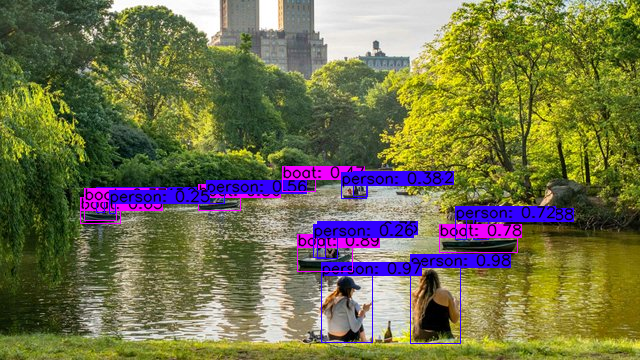
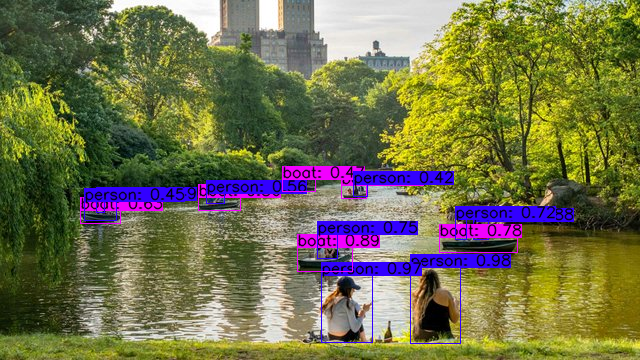
2021-12-11 remarked

Changed region(s): [[0.125, 0.5194, 0.3438, 0.6111], [0.4688, 0.6111, 0.6562, 0.6722], [0.5312, 0.4583, 0.6875, 0.5194]]

diff --git a/detect_simple.py b/detect_simple.py
@@ -3,29 +3,29 @@ import core.utils as utils
 from tensorflow.python.saved_model import tag_constants
 import cv2
 import numpy as np
-import os
+import os #모듈 import 
 
-os.environ['TF_CPP_MIN_LOG_LEVEL'] = '3'
-MODEL_PATH = './checkpoints/yolov4-416'
-IOU_THRESHOLD = 0.45
-SCORE_THRESHOLD = 0.25
-INPUT_SIZE = 416
+os.environ['TF_CPP_MIN_LOG_LEVEL'] = '3' #enable 오류
+MODEL_PATH = './checkpoints/yolov4-416' # 모델 기본 위치
+IOU_THRESHOLD = 0.45  # 한계점 설정
+SCORE_THRESHOLD = 0.40 # 최소 점수 만족
+INPUT_SIZE = 416 #사진 크기
 
 # load model
-saved_model_loaded = tf.saved_model.load(MODEL_PATH, tags=[tag_constants.SERVING])
-infer = saved_model_loaded.signatures['serving_default']
+saved_model_loaded = tf.saved_model.load(MODEL_PATH, tags=[tag_constants.SERVING]) # 학습된 모델 부르기
+infer = saved_model_loaded.signatures['serving_default'] #시그니쳐 키 설정
 
 def main(img_path):
     
-    img = cv2.imread(img_path)
-    img = cv2.cvtColor(img, cv2.COLOR_BGR2RGB)
+    img = cv2.imread(img_path) # img road
+    img = cv2.cvtColor(img, cv2.COLOR_BGR2RGB) # bgr 형식 rgb로 convert
 
-    img_input = cv2.resize(img, (INPUT_SIZE, INPUT_SIZE))
-    img_input = img_input / 255.
-    img_input = img_input[np.newaxis, ...].astype(np.float32)
-    img_input = tf.constant(img_input)
+    img_input = cv2.resize(img, (INPUT_SIZE, INPUT_SIZE)) # 크기 재설정
+    img_input = img_input / 255. # 크기 재설정
+    img_input = img_input[np.newaxis, ...].astype(np.float32) # 축 설정
+    img_input = tf.constant(img_input) # numpy를 tf 로 변환
 
-    pred_bbox = infer(img_input)
+    pred_bbox = infer(img_input) #  모델에 img 추가
 
     for key, value in pred_bbox.items():
         boxes = value[:, :, 0:4]
@@ -40,12 +40,14 @@ def main(img_path):
         iou_threshold=IOU_THRESHOLD,
         score_threshold=SCORE_THRESHOLD
     )
+    #iou, score 넘는 애들만 체크 
+
 
     pred_bbox = [boxes.numpy(), scores.numpy(), classes.numpy(), valid_detections.numpy()]
-    result = utils.draw_bbox(img, pred_bbox)
+    result = utils.draw_bbox(img, pred_bbox) #바운딩 박스 추가
 
-    result = cv2.cvtColor(np.array(result), cv2.COLOR_RGB2BGR)
-    cv2.imwrite('res.png', result)
+    result = cv2.cvtColor(np.array(result), cv2.COLOR_RGB2BGR) # 재변환
+    cv2.imwrite('res.png', result) # 사진 저장
 
 if __name__ == '__main__':
     img_path = './data/central.jpg'
